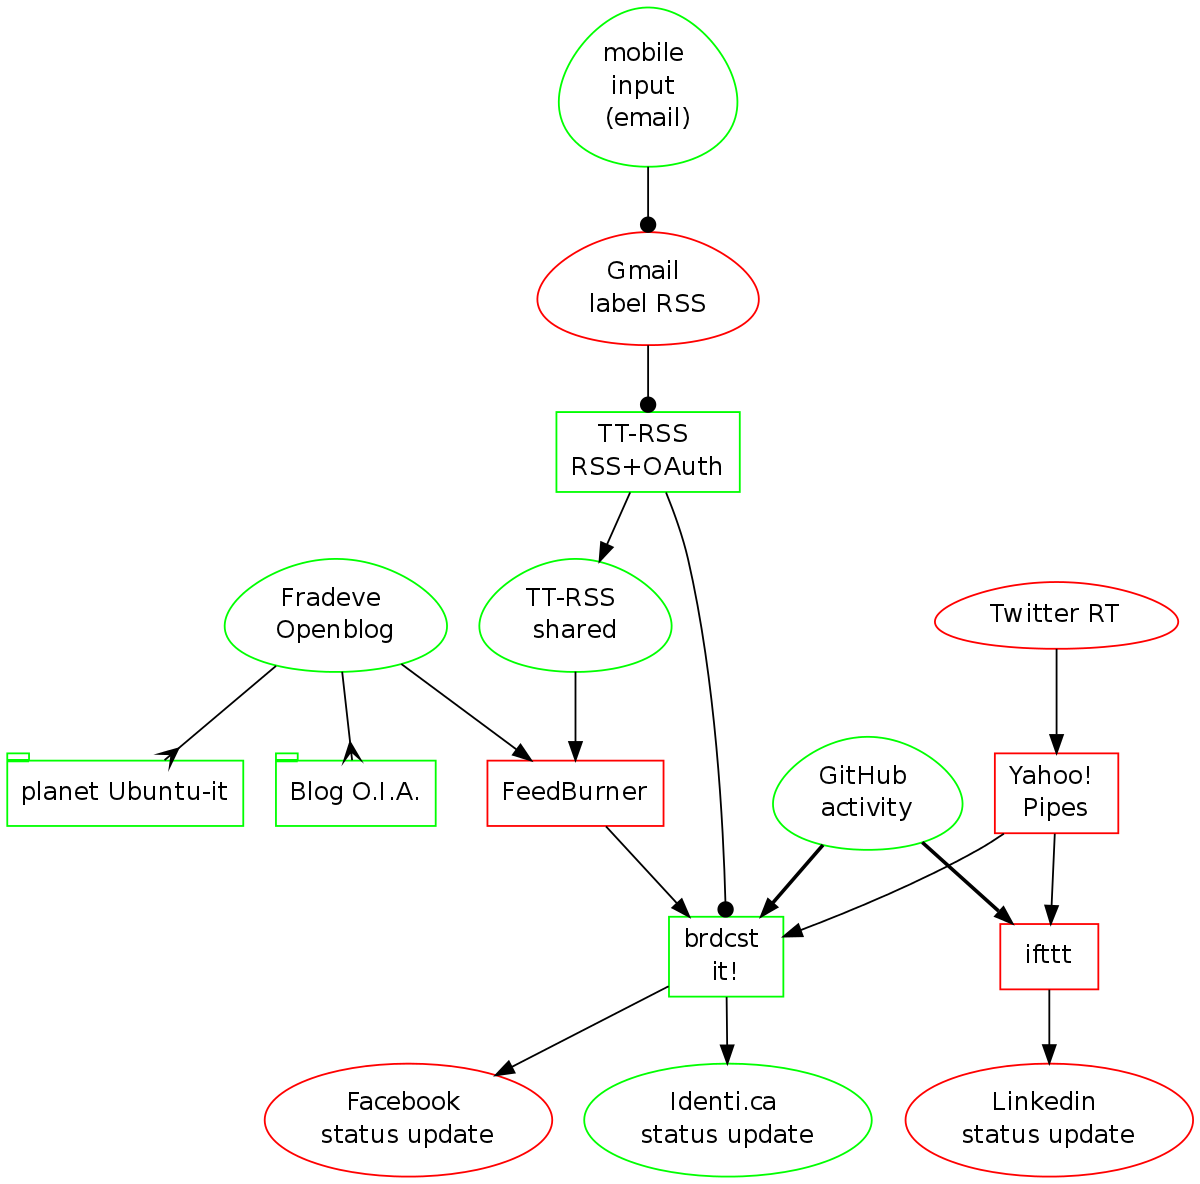
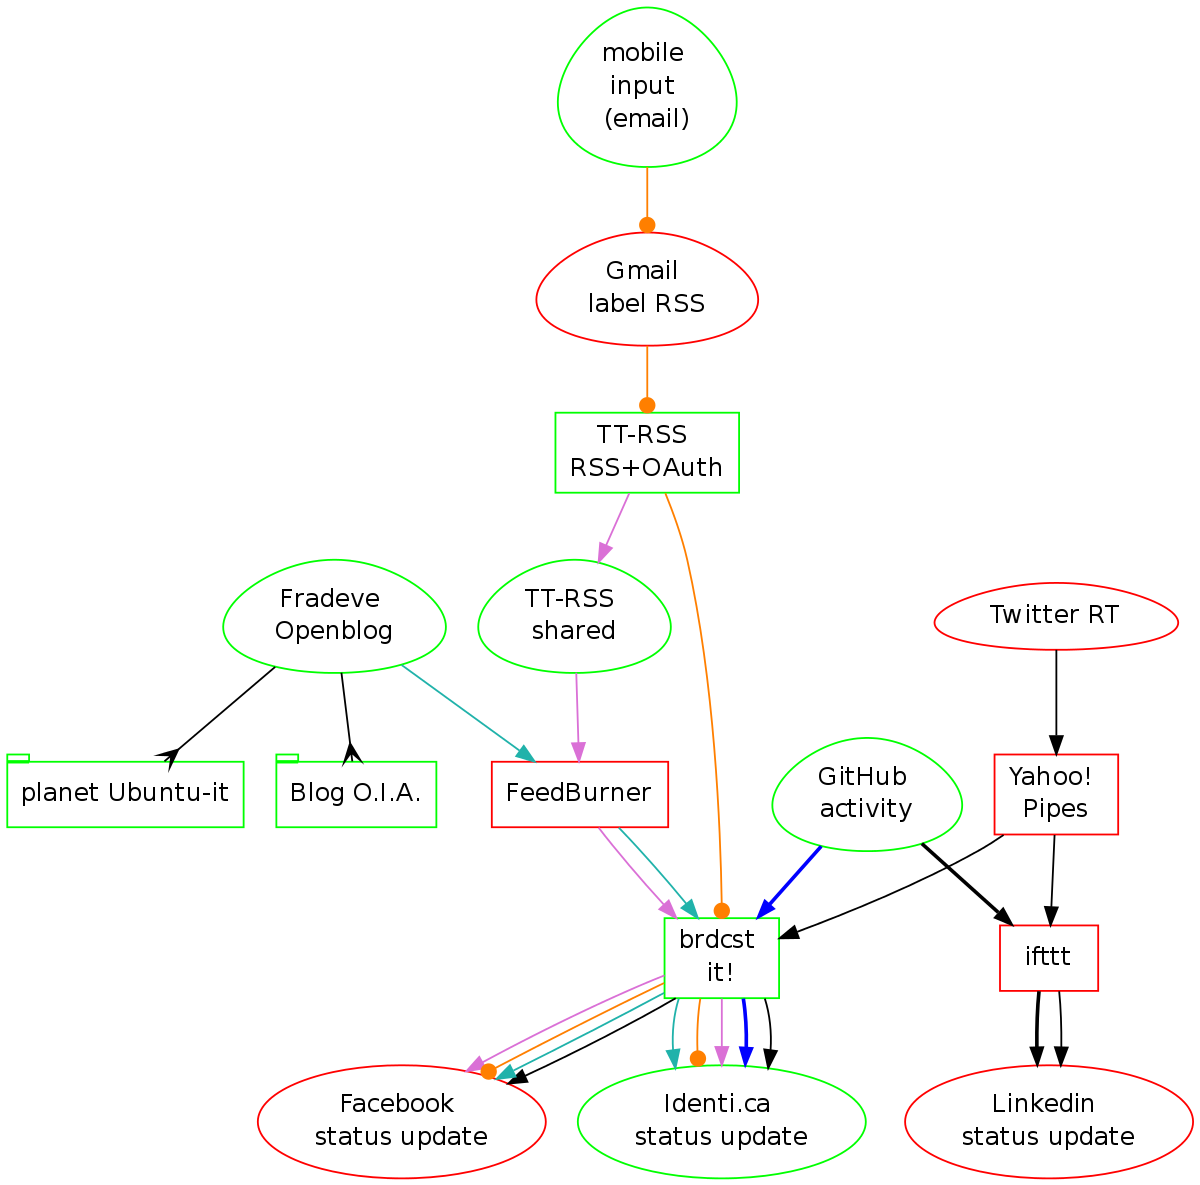
updated post, code, image, draft

diff --git a/content/log/2011/02/how-do-I-blog.html b/content/log/2011/02/how-do-I-blog.html
@@ -8,7 +8,7 @@ tags:
     - ubuntu
 ---
 
-_Ultimo aggiornamento:_ 2 aprile 2012
+_Ultimo aggiornamento:_ 3 agosto 2012
 
 ## Pippe ##
 
@@ -39,62 +39,73 @@ Questo basta? No. Per giocare un po' con [Graphviz][7] (cosa che volevo fare da 
 
 <center>![][8]<br>_Collegamenti tra i vari servizi di social networking_</center>
 
-	digraph G {
-	    graph [ dpi = 300 ];
-	    // table size
-	    size ="4,6";
+  digraph G {
+      graph [ dpi = 300 ];
+      // table size
+      size ="4,6";
 
-	    //// LABELING ////
+      //// LABELING ////
 
-	    // means
-	    ttrss [label="TT-RSS \nRSS+OAuth ",shape=record,color=green]
-	    brdcst [label="brdcst \nit!", shape=record,color=green]
-	    ifttt [label="ifttt", shape=record,color=red]
-	    feedburner[label="FeedBurner",shape=record,color=red]
-	    pipes[label="Yahoo! \nPipes",shape=record,color=red]
+      // means
+      ttrss [label="TT-RSS \nRSS+OAuth ",shape=record,color=green]
+      brdcst [label="brdcst \nit!", shape=record,color=green]
+      ifttt [label="ifttt", shape=record,color=red]
+      feedburner[label="FeedBurner",shape=record,color=red]
+      pipes[label="Yahoo! \nPipes",shape=record,color=red]
 
-	    // sources
-	    ttrssshared [label="TT-RSS \nshared",shape=egg,color=green]
-	    blog [label="Fradeve \nOpenblog",shape=egg,color=green]
-	    mobile [label="mobile \ninput \n(email)",shape=egg,color=green]
-	    github [label="GitHub \nactivity",shape=egg,color=green]
-	    twitter [label="Twitter RT",shape=egg,color=red]
-	    gmail [label="Gmail \nlabel RSS",shape=egg,color=red]
+      // sources
+      ttrssshared [label="TT-RSS \nshared",shape=egg,color=green]
+      blog [label="Fradeve \nOpenblog",shape=egg,color=green]
+      mobile [label="mobile \ninput \n(email)",shape=egg,color=green]
+      github [label="GitHub \nactivity",shape=egg,color=green]
+      twitter [label="Twitter RT",shape=egg,color=red]
+      gmail [label="Gmail \nlabel RSS",shape=egg,color=red]
 
-	    // destinations
-	    identica [label="Identi.ca \nstatus update",color=green]
-	    linkedin [label="Linkedin \nstatus update",color=red]
-	    facebook [label="Facebook \nstatus update",color=red]
-	    planetub [label="planet Ubuntu-it",shape=tab,color=green]
-	    oiablog [label="Blog O.I.A.",shape=tab,color=green]
+      // destinations
+      identica [label="Identi.ca \nstatus update",color=green]
+      linkedin [label="Linkedin \nstatus update",color=red]
+      facebook [label="Facebook \nstatus update",color=red]
+      planetub [label="planet Ubuntu-it",shape=tab,color=green]
+      oiablog [label="Blog O.I.A.",shape=tab,color=green]
 
-	    //// CONNECTIONS ////
+      //// CONNECTIONS ////
 
-	    // RSS-specific
-	    blog -> feedburner;
-	    ttrss -> ttrssshared;
-	    ttrssshared -> feedburner;
-	    feedburner -> brdcst;
+      // ping
+      mobile -> gmail [arrowhead=dot,color=darkorange1];
+      gmail -> ttrss [arrowhead=dot,color=darkorange1];
+      ttrss -> brdcst [arrowhead=dot,color=darkorange1];
+      brdcst -> facebook [arrowhead=dot,color=darkorange1];
+      brdcst -> identica [arrowhead=dot,color=darkorange1];
 
-	    // connecting sources to carriers
-	    mobile -> gmail [arrowhead=dot];
-	    gmail -> ttrss [arrowhead=dot];
-	    ttrss -> brdcst [arrowhead=dot];
-	    twitter -> pipes [style=dot];
-	    pipes -> brdcst [style=dot];
-	    pipes -> ifttt [style=dot];
-	    github -> brdcst [style=bold];
-	    github -> ifttt [style=bold];
+      // connecting aggregators to blog
+      blog -> planetub [arrowhead=crow];
+      blog -> oiablog [arrowhead=crow];
 
-	    // connecting carriers to destinations
-	    brdcst -> facebook;
-	    brdcst -> identica;
-	    ifttt -> linkedin;
+      // blog
+      blog -> feedburner [color=lightseagreen];
+      feedburner -> brdcst [color=lightseagreen];
+      brdcst -> facebook [color=lightseagreen];
+      brdcst -> identica [color=lightseagreen];
 
-	    // connecting aggregators to blog
-	    blog -> planetub [arrowhead=crow];
-	    blog -> oiablog [arrowhead=crow];
-	}
+      // RSS shared
+      ttrss -> ttrssshared [color=orchid];
+      ttrssshared -> feedburner [color=orchid];
+      feedburner -> brdcst [color=orchid];
+      brdcst -> facebook [color=orchid];
+      brdcst -> identica [color=orchid];
+      
+      // GitHub
+      github -> brdcst [style=bold,color=blue];
+      brdcst -> identica [style=bold,color=blue];
+
+      github -> ifttt [style=bold];
+      ifttt -> linkedin [style=bold];
+
+      // Twitter
+      twitter -> pipes -> ifttt -> linkedin;
+      pipes -> brdcst -> facebook;
+      brdcst -> identica;
+  }
 
 Il comando per generarlo partendo dal file `graph.dot`:
 
